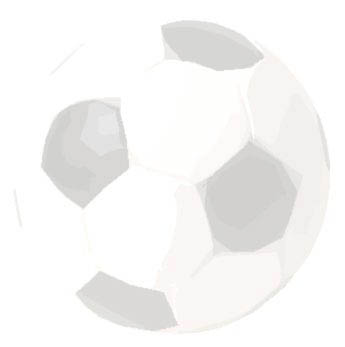
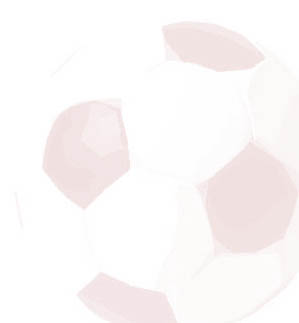
Can now create games with as yet unassigned teams (for stuff like cup games where you don't know who will be playing yet).
Tweaked few other admin links and styles.

Altered background image for football so it's less in your face.

diff --git a/public/stylesheets/_tags.css b/public/stylesheets/_tags.css
@@ -141,16 +141,16 @@ div.group {
 
 }
 
-  div.stage_with_groups div.group {
+  div.league_stage_with_groups div.group {
     float: left;
     width: 48%;
   }
   
-	div.stage_with_groups div.odd {
+	div.league_stage_with_groups div.odd {
     clear: both;
   }
 
-  div.stage_with_groups div.even {
+  div.league_stage_with_groups div.even {
     float: right;
   }
 
@@ -175,10 +175,10 @@ p.admin {
 }
 
 .admin a, a.admin {
-  background: #6C6;
-	color: #FFF !important;
+  background: #FFC;
 	text-decoration: none;
-	outline: 2px solid #6C6;
+	outline: 2px solid #FFC;
+	font-weight: normal;
 }
 
 div.standout {

diff --git a/public/stylesheets/_tables.css b/public/stylesheets/_tables.css
@@ -18,14 +18,19 @@ table thead th {
 	background: url(/images/header.gif) center;
 }
 
+table.games tfoot td,
 table.standings tfoot td {
 	text-align: right;
-	border-top: 1px solid #999;
+	border-top: 1px solid #EEE;
+	line-height: 1.5em;
+	padding-right: 2px;
 }
 
 table.standings th,
 table.games th {
 	line-height: 1.4em;
+	padding-left: 2px;
+	padding-right: 2px;
 }
 
 table.standings td.stat,

diff --git a/app/models/competition.rb b/app/models/competition.rb
@@ -81,7 +81,7 @@ class Competition < ActiveRecord::Base
     
   has_many :news_worthy_matches,
     :class_name => 'Match',
-    :conditions => "(kickoff BETWEEN (CURRENT_DATE - 28) and (CURRENT_DATE + 4))",
+    :conditions => "(kickoff BETWEEN (CURRENT_DATE - 28) and (CURRENT_DATE + 4) AND hometeam_id != 0 AND awayteam_id != 0)",
     :include => [:home_team, :away_team, :group],
     :order => "kickoff desc"
 
@@ -118,6 +118,10 @@ class Competition < ActiveRecord::Base
   
   def matches_for_day(date)
     self.matches.find :all, :conditions => ["yyyymmdd = ?", date.strftime("%Y%m%d")]
+  end
+  
+  def has_news_worthy_matches?
+    self.news_worthy_matches.count > 0
   end
   
   # Attempts to save result data for this competitions fixtures

diff --git a/app/models/group.rb b/app/models/group.rb
@@ -4,6 +4,7 @@ class Group < ActiveRecord::Base
 
   belongs_to :stage, :counter_cache => 'groups_count'
   has_many   :games, :dependent => true, :include => [:home_team, :away_team]
+  has_many   :matches, :include => [:home_team, :away_team]
   has_many   :standings, :include => :team, :order => 'totalpoints desc'
   has_and_belongs_to_many :teams, :order => 'title asc'
   
@@ -19,7 +20,7 @@ class Group < ActiveRecord::Base
 
   has_many :overdue_fixtures,
     :class_name => 'Match',
-    :conditions => ["kickoff < CURRENT_DATE and played = ?", false],
+    :conditions => ["kickoff < CURRENT_DATE AND hometeam_id != 0 AND awayteam_id != 0 AND played = ?", false],
     :order => "kickoff asc"
   
   has_many :recent_results,
